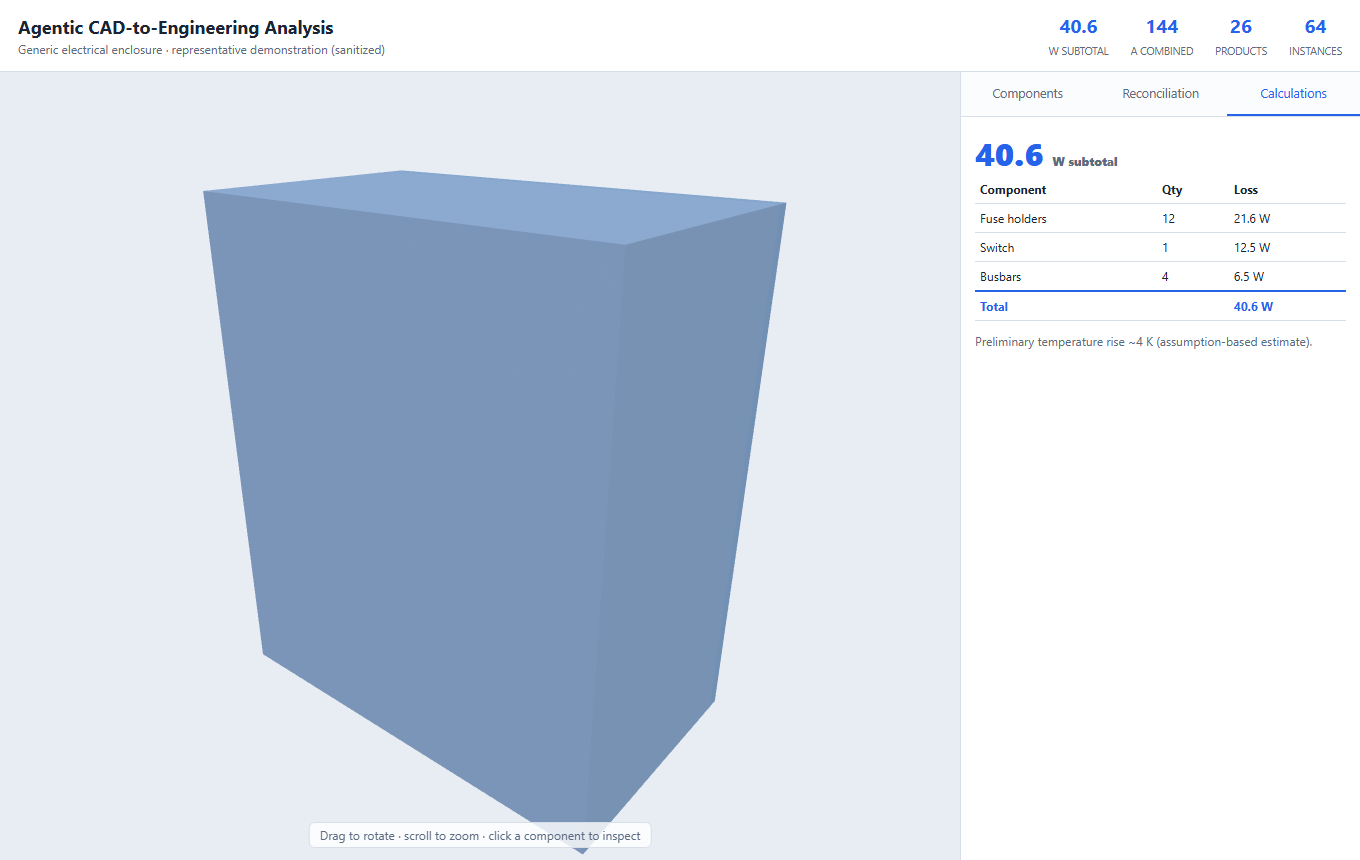
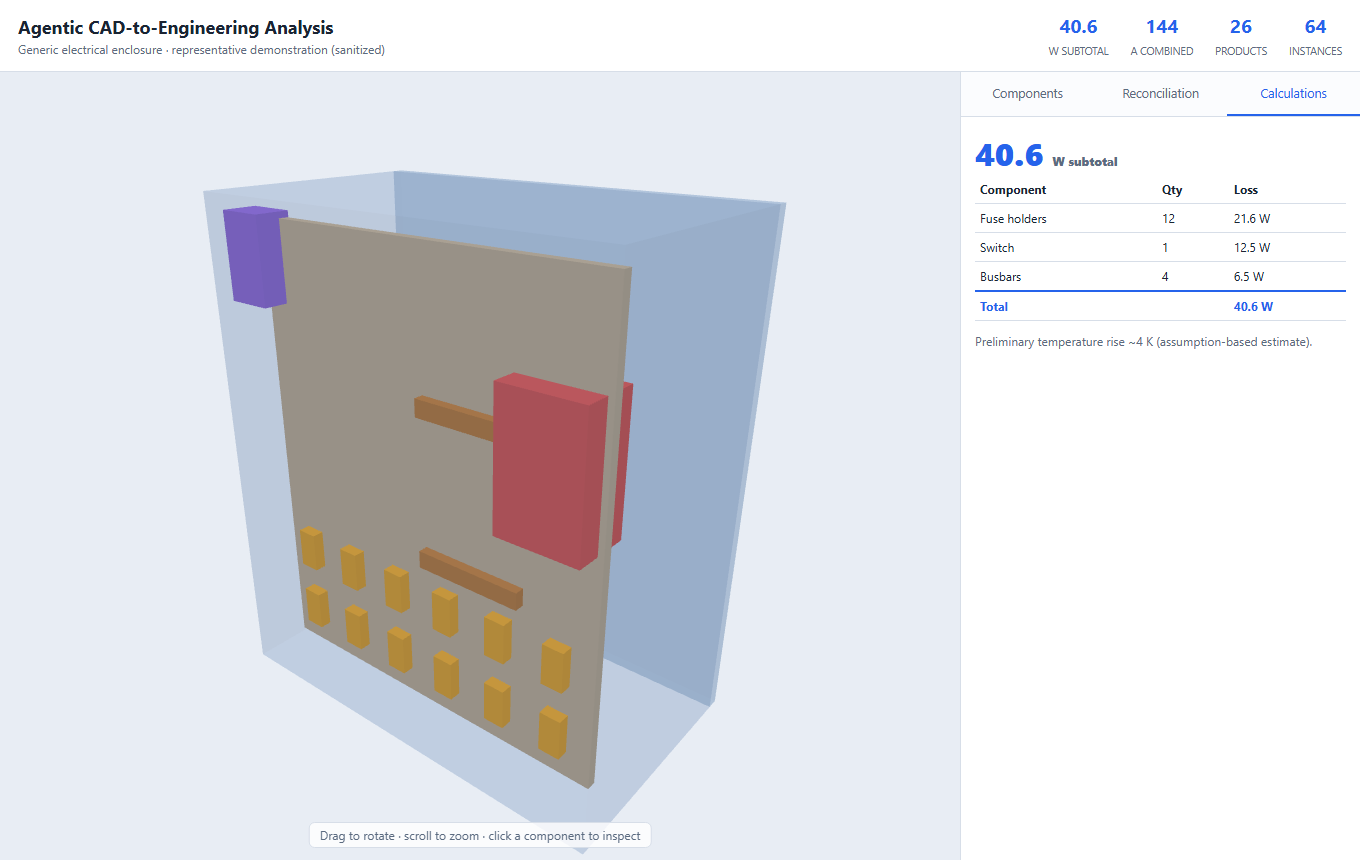
Fix demo: translucent enclosure so internal components are visible

Changed region(s): [[0.1544, 0.1814, 0.5868, 0.9674]]

diff --git a/demo.html b/demo.html
@@ -90,11 +90,13 @@ scene.add(new THREE.HemisphereLight(0xffffff, 0xc9d4e0, 0.6));
 const key = new THREE.DirectionalLight(0xffffff, 1.0); key.position.set(500,800,600); scene.add(key);
 const fill = new THREE.DirectionalLight(0xffffff, 0.55); fill.position.set(-500,300,-400); scene.add(fill);
 
-function box(w,h,d,x,y,z,color){const m=new THREE.Mesh(new THREE.BoxGeometry(w,h,d),new THREE.MeshLambertMaterial({color,flatShading:true}));m.position.set(x,y,z);scene.add(m);return m;}
+function box(w,h,d,x,y,z,color,opacity){const mat = opacity!=null ? new THREE.MeshLambertMaterial({color,flatShading:true,transparent:true,opacity,depthWrite:false,side:THREE.DoubleSide}) : new THREE.MeshLambertMaterial({color,flatShading:true});const m=new THREE.Mesh(new THREE.BoxGeometry(w,h,d),mat);m.position.set(x,y,z);scene.add(m);return m;}
 function part(name,w,h,d,x,y,z,color,data){const m=box(w,h,d,x,y,z,color);m.name=name;m.userData=data;return m;}
 
-// enclosure body
-box(360,420,200, 0,0,0, 0xa5c6f2);
+// enclosure body (translucent shell so internals are visible)
+box(360,420,200, 0,0,0, 0xa5c6f2, 0.22);
+// cover (translucent, front)
+box(360,420,10, 0,0,-105, 0x9cc3f0, 0.30);
 // mounting plate
 box(320,380,8, 0,0,60, 0xd5bfa0);
 // fuse holders (2x6 grid)
@@ -106,8 +108,6 @@ part('Output busbar',90,14,8, 60,-40,80, 0xcd7f32,{desc:'Output busbar',loss:'1.
 part('Output busbar',90,14,8, 60,80,80, 0xcd7f32,{desc:'Output busbar',loss:'1.5 W'});
 // SPD
 part('SPD',40,70,30, -160,160,70, 0x9b6cf5,{desc:'Surge protective device'});
-// cover (front)
-box(360,420,10, 0,0,-105, 0x9cc3f0);
 
 function fit(){const b=new THREE.Box3().setFromObject(scene);const c=b.getCenter(new THREE.Vector3());const s=b.getSize(new THREE.Vector3());const d=Math.max(s.x,s.y,s.z)*1.35;camera.position.copy(c).add(new THREE.Vector3(d*.7,d*.5,d*.85));controls.target.copy(c);}
 fit();
